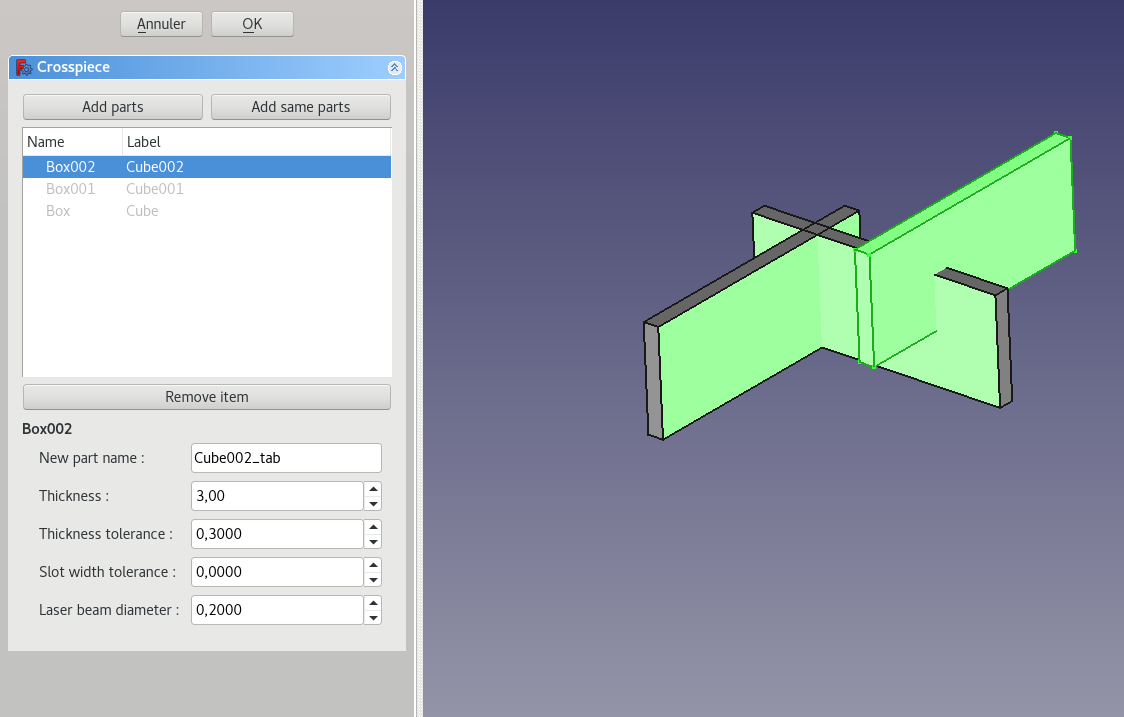
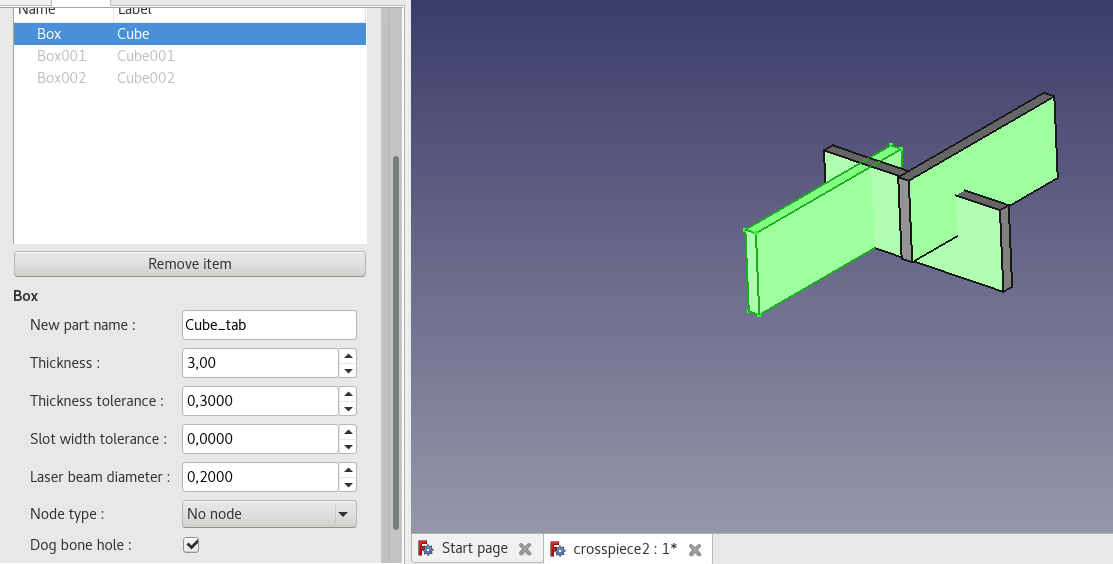
#6 #21
Restore crosspiece dog bones and node options.
Add fast preview option for interlocking tool.

Changed region(s): [[0.0, 0.0, 1.0, 1.0], [0.5499, 0.1507, 0.9775, 0.633]]

diff --git a/panel/crosspiece.py b/panel/crosspiece.py
@@ -28,7 +28,7 @@ import FreeCADGui
 from FreeCAD import Gui, Matrix
 import os
 from lasercut.crosspart import make_cross_parts
-from panel.treepanel import TreePanel
+from panel.treepanel import TreePanel, PREVIEW_NONE, PREVIEW_NORMAL, PREVIEW_FAST
 from panel.propertieslist import PropertiesList
 import json
 import copy
@@ -42,7 +42,7 @@ class CrossPieceGroup:
     def __init__(self, obj):
         obj.addProperty('App::PropertyPythonObject', 'parts').parts = PropertiesList()
         obj.addProperty('App::PropertyPythonObject', 'recompute').recompute = False
-        obj.addProperty('App::PropertyPythonObject', 'preview').preview = False
+        obj.addProperty('App::PropertyPythonObject', 'preview').preview = PREVIEW_NONE
         obj.addProperty('App::PropertyLinkList', 'generatedParts').generatedParts = []
         obj.addProperty('App::PropertyLinkList', 'fromParts').fromParts = []
         obj.addProperty('App::PropertyPythonObject', 'edit').edit = False
@@ -52,6 +52,8 @@ class CrossPieceGroup:
     def onChanged(self, fp, prop):
         if prop == "recompute":
             self.execute(fp)
+        elif prop == "preview":
+            self.preview(fp)
         elif prop == "edit":
             self.editMode(fp)
 
@@ -70,6 +72,39 @@ class CrossPieceGroup:
                 obj.ViewObject.hide()
             for obj in fp.generatedParts:
                 obj.ViewObject.show()
+
+    def preview(self, fp):
+        if fp.preview != PREVIEW_NONE:
+            fp.preview = PREVIEW_NONE
+
+            document = fp.Document
+            preview_doc_name = str(fp.Name) + "_preview_parts"
+            new_doc = False
+            try:
+                preview_doc = FreeCAD.getDocument(preview_doc_name)
+                objs = preview_doc.Objects
+                for obj in objs:
+                    preview_doc.removeObject(obj.Name)
+            except:
+                new_doc = True
+                preview_doc = FreeCAD.newDocument(preview_doc_name)
+
+            parts = []
+            tabs = []
+            for part in fp.parts.lst:
+                cp_part = copy.deepcopy(part)
+                freecad_obj = document.getObject(cp_part.name)
+                cp_part.recomputeInit(freecad_obj)
+                parts.append(cp_part)
+
+            computed_parts = make_cross_parts(parts)
+            for part in computed_parts:
+                new_shape = preview_doc.addObject("Part::Feature", part.get_new_name())
+                new_shape.Shape = part.get_shape()
+            preview_doc.recompute()
+            if new_doc:
+                FreeCADGui.getDocument(preview_doc.Name).ActiveView.fitAll()
+
 
     def execute(self, fp):
         if fp.recompute:
@@ -174,8 +209,7 @@ class CrossPiece(TreePanel):
         self.obj_join.edit = True
 
     def accept(self):
-        self.compute()
-
+        self.compute(False)
         return True
 
     def reject(self):
@@ -183,12 +217,34 @@ class CrossPiece(TreePanel):
         self.obj_join.edit = False
         return True
 
-    def compute(self):
+    def compute(self, preview):
         self.save_items_properties()
         self.save_link_properties()
-        self.obj_join.recompute = True
+        if not preview:
+            self.obj_join.recompute = True
+        else:
+            self.obj_join.preview = PREVIEW_NORMAL
+
+    def preview(self):
+        self.compute(True)
+        self.selection_changed(None, None)
+        return
 
     def init_tree_widget(self):
+        #Preview button
+        v_box = QtGui.QVBoxLayout(self.tree_widget)
+        preview_button = QtGui.QPushButton('Preview', self.tree_widget)
+        preview_button.clicked.connect(self.preview)
+        #self.fast_preview = QtGui.QCheckBox("Fast preview", self.tree_widget)
+        line = QtGui.QFrame(self.tree_widget)
+        line.setFrameShape(QtGui.QFrame.HLine);
+        line.setFrameShadow(QtGui.QFrame.Sunken);
+        h_box = QtGui.QHBoxLayout(self.tree_widget)
+        h_box.addWidget(preview_button)
+        #h_box.addWidget(self.fast_preview)
+        v_box.addLayout(h_box)
+        v_box.addWidget(line)
+        self.tree_vbox.addLayout(v_box)
         # Add part buttons
         h_box = QtGui.QHBoxLayout(self.tree_widget)
         add_parts_button = QtGui.QPushButton('Add parts', self.tree_widget)

diff --git a/panel/treepanel.py b/panel/treepanel.py
@@ -35,6 +35,12 @@ from lasercut.tabproperties import TabProperties
 from panel.treeview import TreeModel, TreeItem
 from panel.propertieslist import PropertiesList
 
+
+PREVIEW_NONE = 0
+PREVIEW_NORMAL = 1
+PREVIEW_FAST = 2
+
+
 class TreePanel(object):
 
     def __init__(self, title, obj_join = None): #none to be removed
@@ -46,7 +52,10 @@ class TreePanel(object):
         else:
             self.faces = PropertiesList()
 
-        self.partsList = PartsList(Part, self.parts)
+        if title != "Crosspiece":
+            self.partsList = PartsList(Part, self.parts)
+        else:
+            self.partsList = PartsList(CrossPartWidget, self.parts)
         self.tabsList = TabsList(self.faces)
 
         self.params_widget = None
@@ -73,19 +82,9 @@ class TreePanel(object):
         self.edit_items_layout = None
         self.init_tree_widget()
         self.preview_doc = None
-        #self._preview_button = None
         self.show_other_state_checkbox = None
         self.other_object_list = []
         self.save_initial_objects()
-        #self.init_params()
-
-        #items_list = self.partsList.resumeWidget()
-        #for item in items_list:
-        #    self.model.append_part(item.name, item.label, bool(item.link_name))
-
-        #items_list = self.tabsList.resumeWidget()
-        #for item in items_list:
-        #    self.model.append_tab(item.obj_name, item.tab_name, item.name, bool(item.link_name))
 
         for item in self.parts:
             self.model.append_part(item.name, item.label, bool(item.link_name))
@@ -105,12 +104,15 @@ class TreePanel(object):
     def init_tree_widget(self):
         v_box = QtGui.QVBoxLayout(self.tree_widget)
         preview_button = QtGui.QPushButton('Preview', self.tree_widget)
-        #self.tree_vbox.addWidget(preview_button)
-        preview_button.clicked.connect(self.preview)
+        preview_button.clicked.connect(self.abs_preview)
+        self.fast_preview = QtGui.QCheckBox("Fast preview", self.tree_widget)
         line = QtGui.QFrame(self.tree_widget)
         line.setFrameShape(QtGui.QFrame.HLine);
         line.setFrameShadow(QtGui.QFrame.Sunken);
-        v_box.addWidget(preview_button)
+        h_box = QtGui.QHBoxLayout(self.tree_widget)
+        h_box.addWidget(preview_button)
+        h_box.addWidget(self.fast_preview)
+        v_box.addLayout(h_box)
         v_box.addWidget(line)
         self.tree_vbox.addLayout(v_box)
 
@@ -360,10 +362,13 @@ class TreePanel(object):
         parts_vbox.addWidget(preview_button,2,0,1,2)
         preview_button.clicked.connect(self.preview)
 
+    def abs_preview(self):
+        self.preview(self.fast_preview.isChecked())
+
     def compute_parts(self):
         raise ValueError("Must overloaded")
 
-    def preview(self):
+    def preview(self, fast=False):
         raise ValueError("Must overloaded")
 
     def save_initial_objects(self):

diff --git a/panel/multiplejoins.py b/panel/multiplejoins.py
@@ -28,7 +28,7 @@ import FreeCADGui
 from FreeCAD import Gui, Matrix
 import os
 from lasercut.join import make_tabs_joins
-from panel.treepanel import TreePanel
+from panel.treepanel import TreePanel, PREVIEW_NONE, PREVIEW_NORMAL, PREVIEW_FAST
 from panel.propertieslist import PropertiesList
 import json
 import copy
@@ -42,7 +42,7 @@ class MultipleJoinGroup:
         obj.addProperty('App::PropertyPythonObject', 'parts').parts = PropertiesList()
         obj.addProperty('App::PropertyPythonObject', 'faces').faces = PropertiesList()
         obj.addProperty('App::PropertyPythonObject', 'recompute').recompute = False
-        obj.addProperty('App::PropertyPythonObject', 'preview').preview = False
+        obj.addProperty('App::PropertyPythonObject', 'preview').preview = PREVIEW_NONE
         obj.addProperty('App::PropertyLinkList', 'generatedParts').generatedParts = []
         obj.addProperty('App::PropertyLinkList', 'fromParts').fromParts = []
         obj.addProperty('App::PropertyPythonObject', 'edit').edit = False
@@ -74,8 +74,11 @@ class MultipleJoinGroup:
                 obj.ViewObject.show()
 
     def preview(self, fp):
-        if fp.preview:
-            fp.preview = False
+        if fp.preview != PREVIEW_NONE:
+            fast = False
+            if fp.preview == PREVIEW_FAST:
+                fast = True
+            fp.preview = PREVIEW_NONE
 
             document = fp.Document
             preview_doc_name = str(fp.Name) + "_preview_parts"
@@ -107,7 +110,7 @@ class MultipleJoinGroup:
             computed_parts = make_tabs_joins(parts, tabs)
             for part in computed_parts:
                 new_shape = preview_doc.addObject("Part::Feature", part.get_new_name())
-                new_shape.Shape = part.get_shape()
+                new_shape.Shape = part.get_shape(fast)
             preview_doc.recompute()
             if new_doc:
                 FreeCADGui.getDocument(preview_doc.Name).ActiveView.fitAll()
@@ -235,19 +238,20 @@ class MultipleJoins(TreePanel):
         self.obj_join.edit = False
         return True
 
-    def preview(self):
-        self.compute(True)
-        #self.force_current_selection()
+    def preview(self, fast=False):
+        self.compute(True, fast)
         self.selection_changed(None, None)
         return
 
-    def compute(self, preview):
+    def compute(self, preview, fast=False):
         self.save_items_properties()
         self.save_link_properties()
         if not preview:
             self.obj_join.recompute = True
+        elif not fast:
+            self.obj_join.preview = PREVIEW_NORMAL
         else:
-            self.obj_join.preview = True
+            self.obj_join.preview = PREVIEW_FAST
 
 class MultipleCommand:
 

diff --git a/panel/partmat.py b/panel/partmat.py
@@ -95,20 +95,7 @@ class PartsList(object):
     def __init__(self, object_type, parts):
         self.part_list = parts
         self.object_type = object_type
-        #self.part_widget_list = []
-
         return
-
-    # def resumeWidget(self):
-    #     for material in self.part_list:
-    #         if not material.link_name:
-    #             self.part_widget_list.append(self.object_type(material))
-    #         else:
-    #             self.part_widget_list.append(PartLink(material))
-    #     return self.part_widget_list
-    #
-    # def get_widgets(self):
-    #     return self.part_widget_list
 
     def append(self, freecad_object):
         if self.exist(freecad_object.Name):
@@ -118,8 +105,7 @@ class PartsList(object):
                                           name=freecad_object.Name, label=freecad_object.Label,
                                           freecad_object=freecad_object)
             self.part_list.append(material)
-            #self.part_widget_list.append(self.object_type(material))
-        return self.part_list[-1]#, self.part_widget_list[-1]
+        return self.part_list[-1]
 
     def append_link(self, freecad_object, freecad_object_src):
         if self.exist(freecad_object.Name):
@@ -136,9 +122,8 @@ class PartsList(object):
                 raise ValueError(freecad_object.Name + " does not have the same thickness")
 
             self.part_list.append(material)
-            #self.part_widget_list.append(PartLink(material))
 
-        return self.part_list[-1]#, self.part_widget_list[-1]
+        return self.part_list[-1]
 
     def remove(self, name):
         found_index = None
@@ -153,7 +138,6 @@ class PartsList(object):
                 break
         if found_index is not None:
             self.part_list.pop(found_index)
-            #self.part_widget_list.pop(found_index)
 
     def get_linked_parts(self, name):
         el_list = []
@@ -172,9 +156,7 @@ class PartsList(object):
     def get(self, name):
         for index in range(len(self.part_list)):
             if self.part_list[index].name == name:
-                #FreeCAD.Console.PrintMessage("found " + name + "\n")
                 material = self.part_list[index]
-                #return self.part_list[index], self.part_widget_list[index]
                 if not material.link_name:
                     widget = self.object_type(material)
                 else:

diff --git a/lasercut/helper.py b/lasercut/helper.py
@@ -487,6 +487,18 @@ def assemble_list_element(el_list):
     return part
 
 
+#Use this function only for preview
+# See Warning at https://www.freecadweb.org/wiki/Part_MakeCompound :
+# "A compound containing pieces that intersect or touch is invalid
+# for Boolean operations. Because of performance issues, checking
+# if the pieces intersect is not done. Automatic geometry check
+# (available for Boolean operations) is disabled for part compound as well."
+def assemble_list_element_fast(el_list):
+    if len(el_list) == 0:
+        return None
+    return Part.makeCompound(el_list)
+
+
 class MaterialElement:
     def __init__(self, properties):
         self.properties = properties
@@ -503,8 +515,11 @@ class MaterialElement:
     def get_new_name(self):
         return self.properties.new_name
 
-    def get_shape(self):
-        part = assemble_list_element(self.toAdd)
+    def get_shape(self, fast_assemble=False):
+        if not fast_assemble:
+            part = assemble_list_element(self.toAdd)
+        else:
+            part = assemble_list_element_fast(self.toAdd)
         new_shape = self.properties.freecad_object.Shape
         if part is not None:
             new_shape = new_shape.fuse(part)

diff --git a/README.md b/README.md
@@ -47,8 +47,11 @@ Some videos on older module version
  
  Change notes
 --------------------
-**v1.0:**
+**v1.1:**
+ * Restore crosspiece dog bones and node options.
+ * Add fast preview option for interlocking tool.
 
+**v1.0:**
  * Add a preview button to interlocking and crosspiece tool.
  * All tools can now be reedited.
  * Add support to Python 3 of Freecad 0.18.
